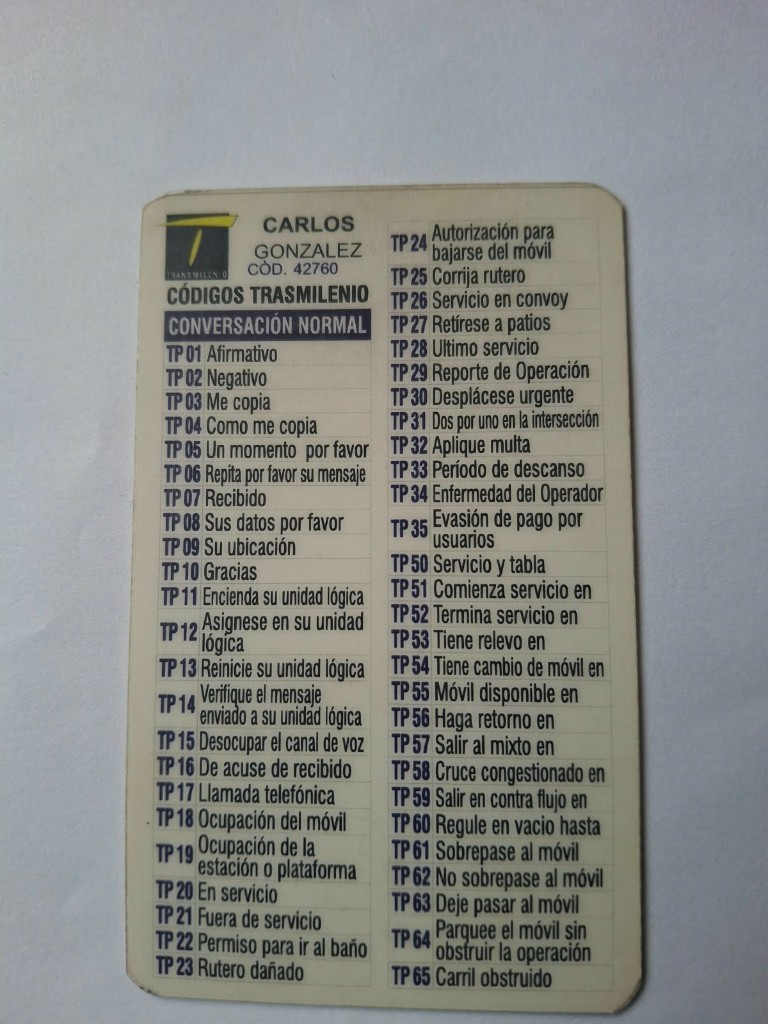
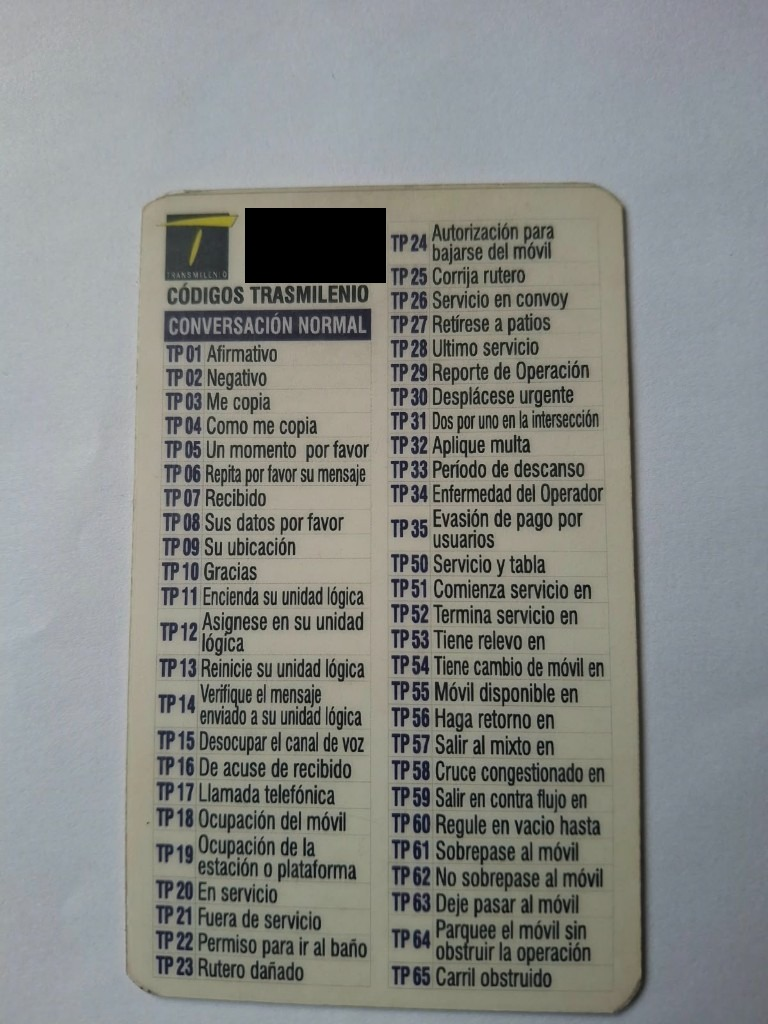
Integración: Responsable persona natural, foto anonimizada y Word regenerado (#30)
* Integra el Responsable persona natural en informe y AI-01, oculta datos personales de la evidencia y regenera el Word

* Informe: recomendación 1 sin negar la capacidad contractual del fundador; regenera Word

Changed region(s): [[0.3125, 0.1875, 0.5, 0.2812]]

diff --git a/docs/ae-final-project/ondas/M1-negocio/03-activos-procesos-capacidades.md b/docs/ae-final-project/ondas/M1-negocio/03-activos-procesos-capacidades.md
@@ -28,7 +28,7 @@ LIRN identifica y clasifica siete activos de información dentro de su arquitect
 
 | ID | Activo de información | Descripción y soporte actual | Proceso custodio | Clasificación de seguridad | ¿Incluye datos personales? | Clasificación bajo Ley 1581 de 2012 y medidas de tratamiento | Marca de hecho |
 |---|---|---|---|---|---|---|---|
-| **AI-01** | **Registro de solicitudes y prospectos comerciales (Leads)** | Registros enviados desde el formulario en `/torns#contacto` (campos: nombre, correo electrónico, organización opcional y mensaje), recibidos vía Google Apps Script en Google Sheets cuando `VITE_CONTACT_ENDPOINT` está configurado. | `P-02 Relación comercial y partes interesadas` | **Confidencial** | **Sí** | **Datos personales privados y semiprivados.** LIRN actúa como Responsable del Tratamiento. Se utilizan exclusivamente para responder al interés comercial solicitado en `P-02`, sin cesión a terceros ni perfilamiento automatizado. | `Observado` / `Diseñado AS-IS` |
+| **AI-01** | **Registro de solicitudes y prospectos comerciales (Leads)** | Registros enviados desde el formulario en `/torns#contacto` (campos: nombre, correo electrónico, organización opcional y mensaje), recibidos vía Google Apps Script en Google Sheets cuando `VITE_CONTACT_ENDPOINT` está configurado. | `P-02 Relación comercial y partes interesadas` | **Confidencial** | **Sí** | **Datos personales privados y semiprivados.** El Responsable del Tratamiento es hoy el fundador como persona natural, quien declara decidir sobre esta base y su tratamiento (Observado por declaración del dueño, 6 de noviembre de 2026; Ley 1581 de 2012, art. 3, lit. e); la futura sociedad no asume ese rol de forma automática. Se utilizan exclusivamente para responder al interés comercial solicitado en `P-02`, sin cesión a terceros ni perfilamiento automatizado. | `Observado` / `Diseñado AS-IS` |
 | **AI-02** | **Repositorio de evidencia de validación del problema (`n=20` y entrevista SITP)** | Resultados de la encuesta aplicada el **17 de agosto de 2026** (`n=20` respuestas válidas en Google Forms) y notas técnicas de la entrevista al controlador de SITP (documentado únicamente por su rol operativo, sin nombre personal). | `P-05 Evidencia, calidad y mejora` | **Interno** (síntesis estadística autorizada como **Público** en `/torns`) | **No** (en el activo consolidado) | **Datos estadísticos anonimizados y registro de rol.** No se conserva ni publica identificación personal de los encuestados ni el nombre del controlador entrevistado. | `Observado` |
 | **AI-03** | **Fuentes de video de estaciones y métricas de conteo (`person_count`)** | Archivos de video de demostración en `tro-backend/src/app/assets/`, capturas por cámara USB o RTSP, stream MJPEG anotado y mensajes JSON por WebSocket (`video_id`, `timestamp`, `total_objects`, `person_count`, `label_counts`). | `P-03 Realización del producto TORNS` y `P-04 Acompañamiento` | **Interno / Confidencial** | **Potencialmente sí (imagen de personas)** | **Dato personal (Ley 1581 de 2012, art. 3; imagen en video).** El prototipo aplica minimización de datos: el modelo detecta únicamente la caja de la clase `"person"` para obtener `person_count`, sin realizar reconocimiento facial, biometría identificativa ni seguimiento individual persistente. | `Observado` |
 | **AI-04** | **Pesos entrenados del modelo de visión (`my_model.pt`) y dataset curado** | Archivo binario de pesos `my_model/my_model.pt` (arquitectura YOLO11s entrenada a 512px por 60 épocas; precisión 0,73, recall 0,55, mAP50 0,64) y partición de entrenamiento/validación (3.694 / 1.000 imágenes procedentes de Roboflow `coco-person` y etiquetado propio en Label Studio). | `P-03 Realización del producto TORNS` | **Reservado** | **No** (en los pesos `.pt`); **Imagen pública/curada** (en el dataset de entrenamiento) | **Sin datos personales identificables en el modelo matemático.** Los pesos contienen únicamente tensores numéricos; las imágenes de entrenamiento provienen de conjuntos públicos de detección de peatones sin vinculación a titulares identificados. | `Observado` |

diff --git a/docs/ae-final-project/ondas/M1-negocio/entregable-punto-1.md b/docs/ae-final-project/ondas/M1-negocio/entregable-punto-1.md
@@ -215,7 +215,7 @@ Datos personales (Ley 1581 de 2012):
 
 | ID | Activo | Descripción y soporte actual | Proceso custodio | Clasificación de seguridad | Datos personales | Tratamiento bajo Ley 1581 de 2012 | Marca |
 |---|---|---|---|---|---|---|---|
-| **AI-01** | Registro de solicitudes y prospectos (leads) | Formulario de contacto de la página de TORNS: nombre, correo electrónico, organización opcional y mensaje. Se recibe en Google Sheets mediante Apps Script cuando el canal está configurado. | P-02 | Confidencial | Sí | Datos personales privados y semiprivados. LIRN es Responsable del Tratamiento. Uso limitado a responder el interés comercial de P-02, sin cesión a terceros ni perfilamiento automatizado. | Observado / Diseñado AS-IS |
+| **AI-01** | Registro de solicitudes y prospectos (leads) | Formulario de contacto de la página de TORNS: nombre, correo electrónico, organización opcional y mensaje. Se recibe en Google Sheets mediante Apps Script cuando el canal está configurado. | P-02 | Confidencial | Sí | Datos personales privados y semiprivados. El Responsable del Tratamiento es hoy el fundador como persona natural, quien declara decidir sobre esta base y su tratamiento (Observado por declaración del dueño, 6 de noviembre de 2026; Ley 1581 de 2012, art. 3, lit. e); la futura sociedad no asume ese rol de forma automática. Uso limitado a responder el interés comercial de P-02, sin cesión a terceros ni perfilamiento automatizado. | Observado / Diseñado AS-IS |
 | **AI-02** | Evidencia de validación del problema | Encuesta del **17 de agosto de 2026, n=20**, y notas de la entrevista al controlador SITP documentada por rol, sin nombre personal. | P-05 | Interno. La síntesis estadística autorizada es pública en la página de TORNS. | No, en el activo consolidado | Datos estadísticos anonimizados y registro de rol. No se publica identificación de encuestados ni el nombre del controlador. | Observado |
 | **AI-03** | Video de estaciones y métricas de conteo | Videos de demostración, cámara USB o RTSP, stream de video anotado y mensajes con `video_id`, `timestamp`, `total_objects`, `person_count` y `label_counts`. | P-03 y P-04 | Interno / Confidencial | Potencialmente sí (imagen de personas) | Dato personal. El prototipo minimiza el tratamiento: detecta la caja de la clase `person` para obtener `person_count`, sin reconocimiento facial, sin biometría identificativa y sin seguimiento individual persistente. | Observado |
 | **AI-04** | Pesos del modelo y dataset curado | Archivo `my_model.pt` (YOLO11s, 512 px, 60 épocas; precisión 0,73, recall 0,55, mAP50 0,64) y partición de 3.694 imágenes de entrenamiento y 1.000 de validación. | P-03 | Reservado | No, en los pesos. Imagen curada en el dataset de entrenamiento. | Los pesos son tensores numéricos. Las imágenes de entrenamiento provienen de conjuntos de detección de peatones sin vinculación a titulares identificados. | Observado |
